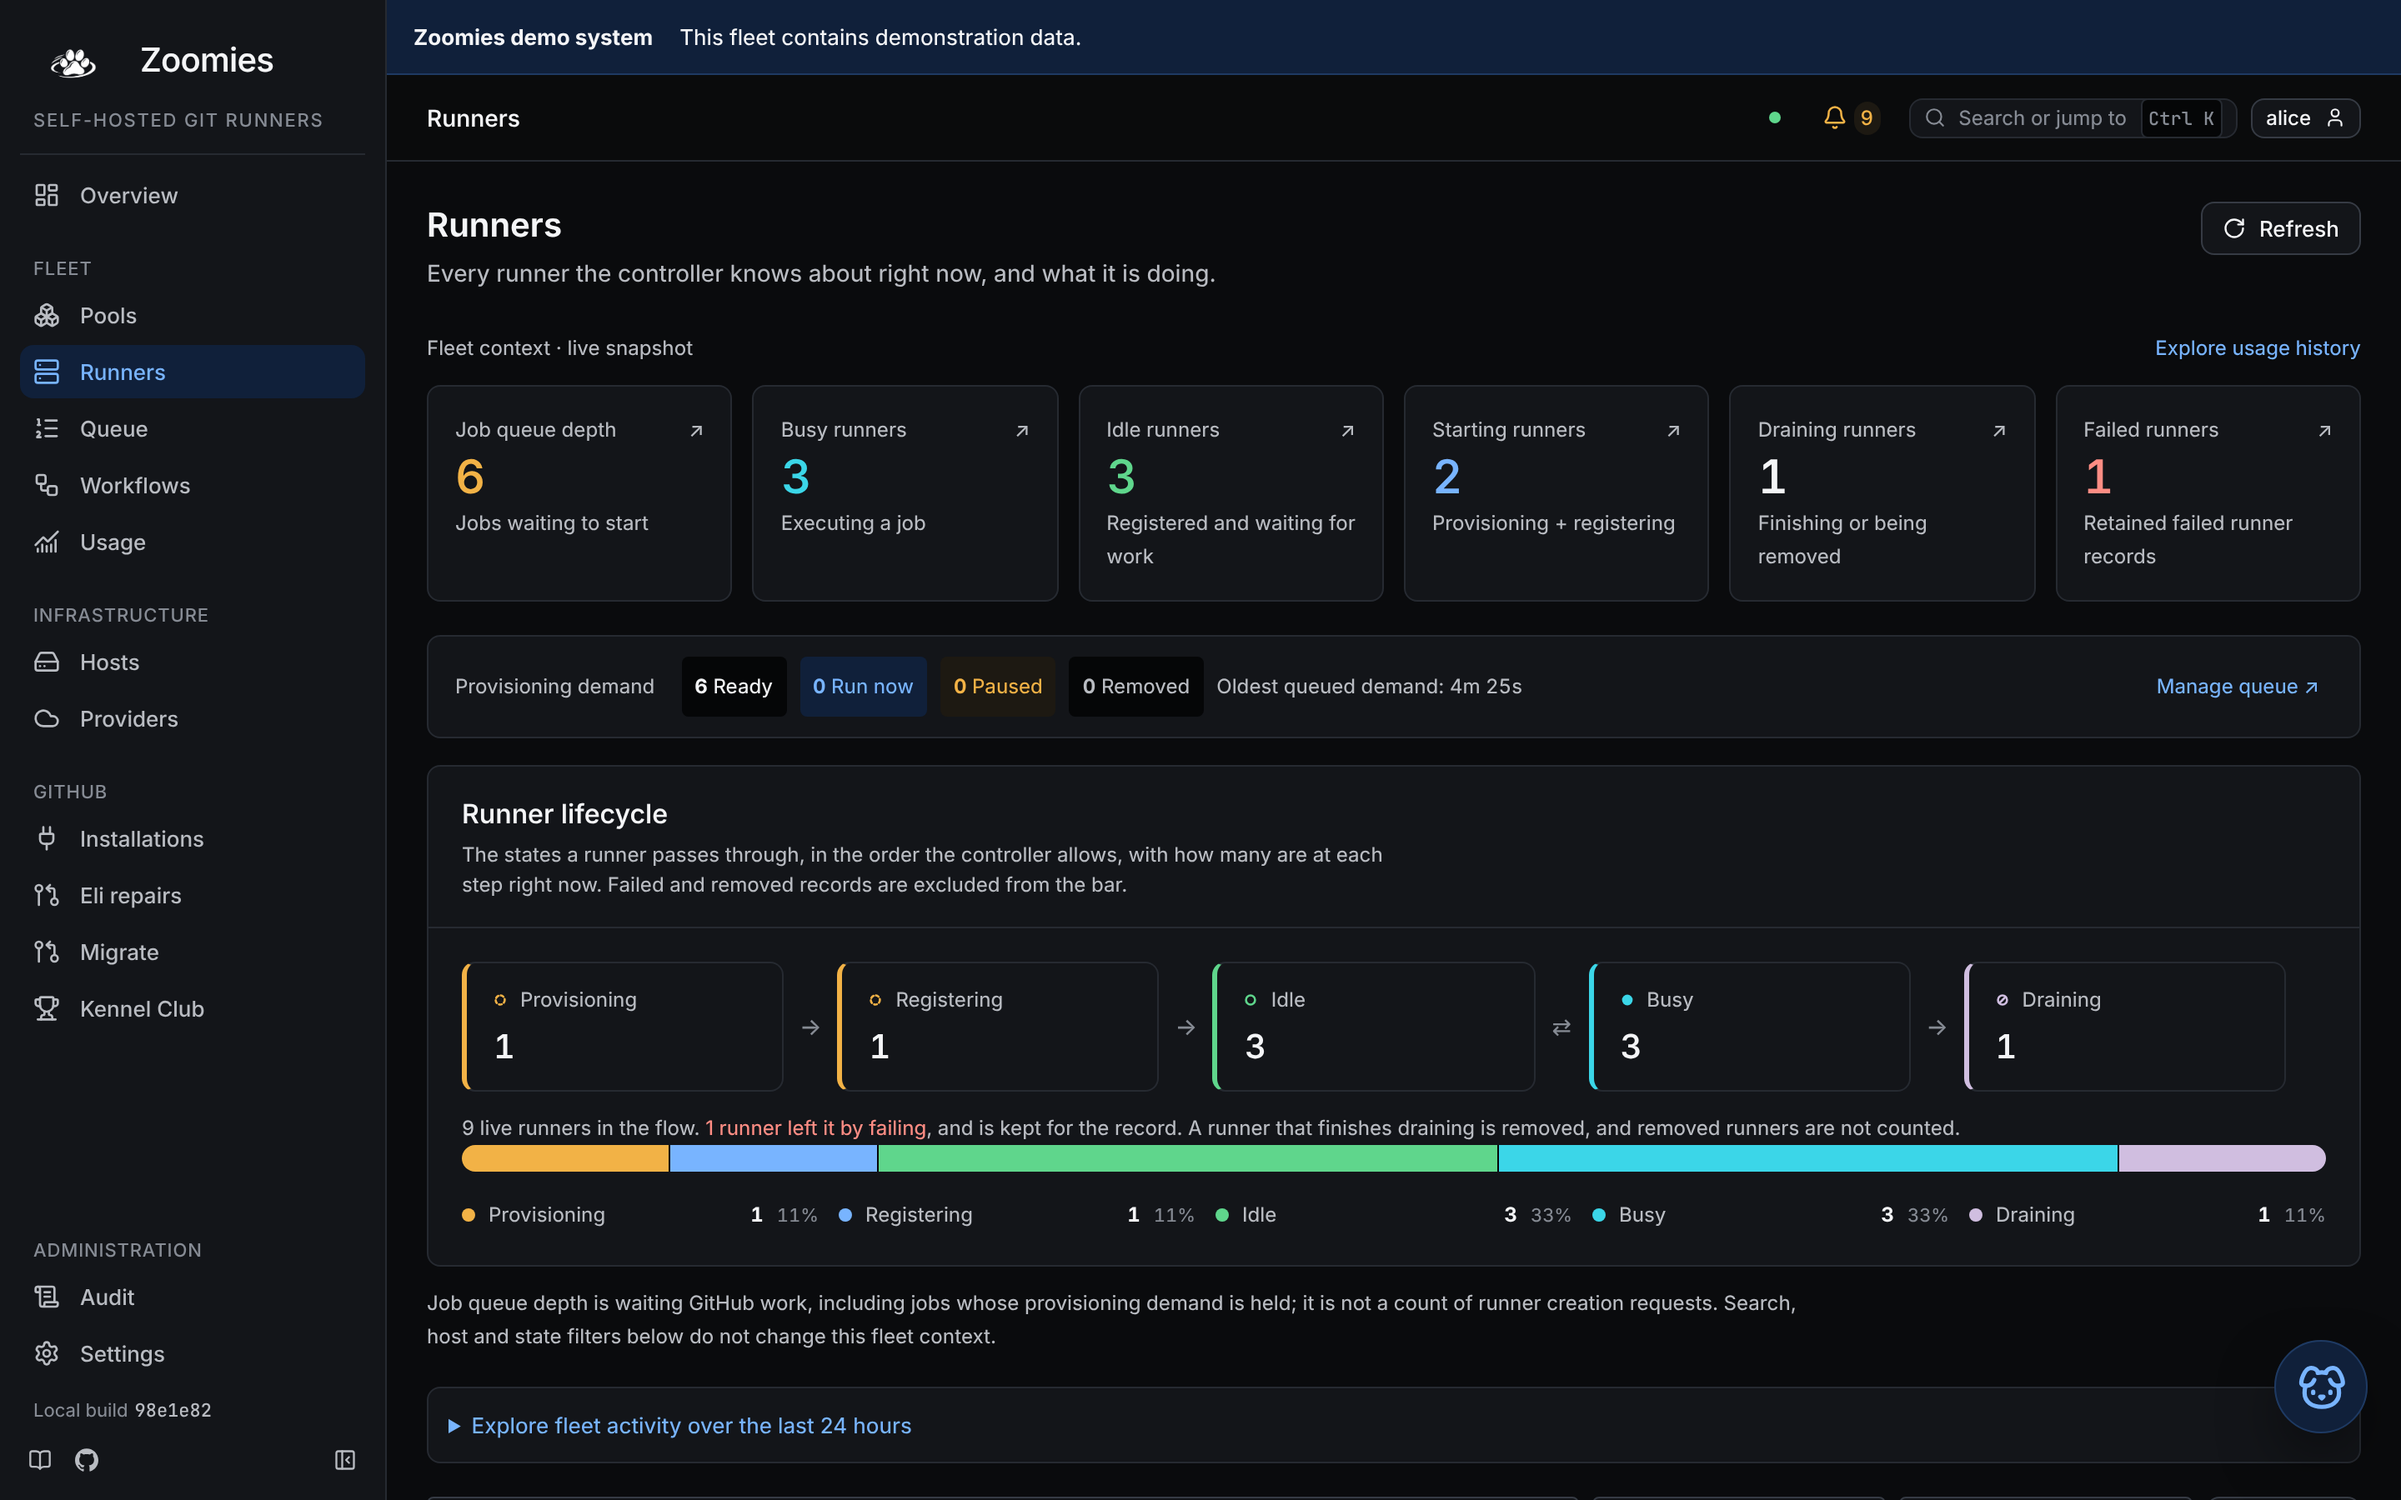
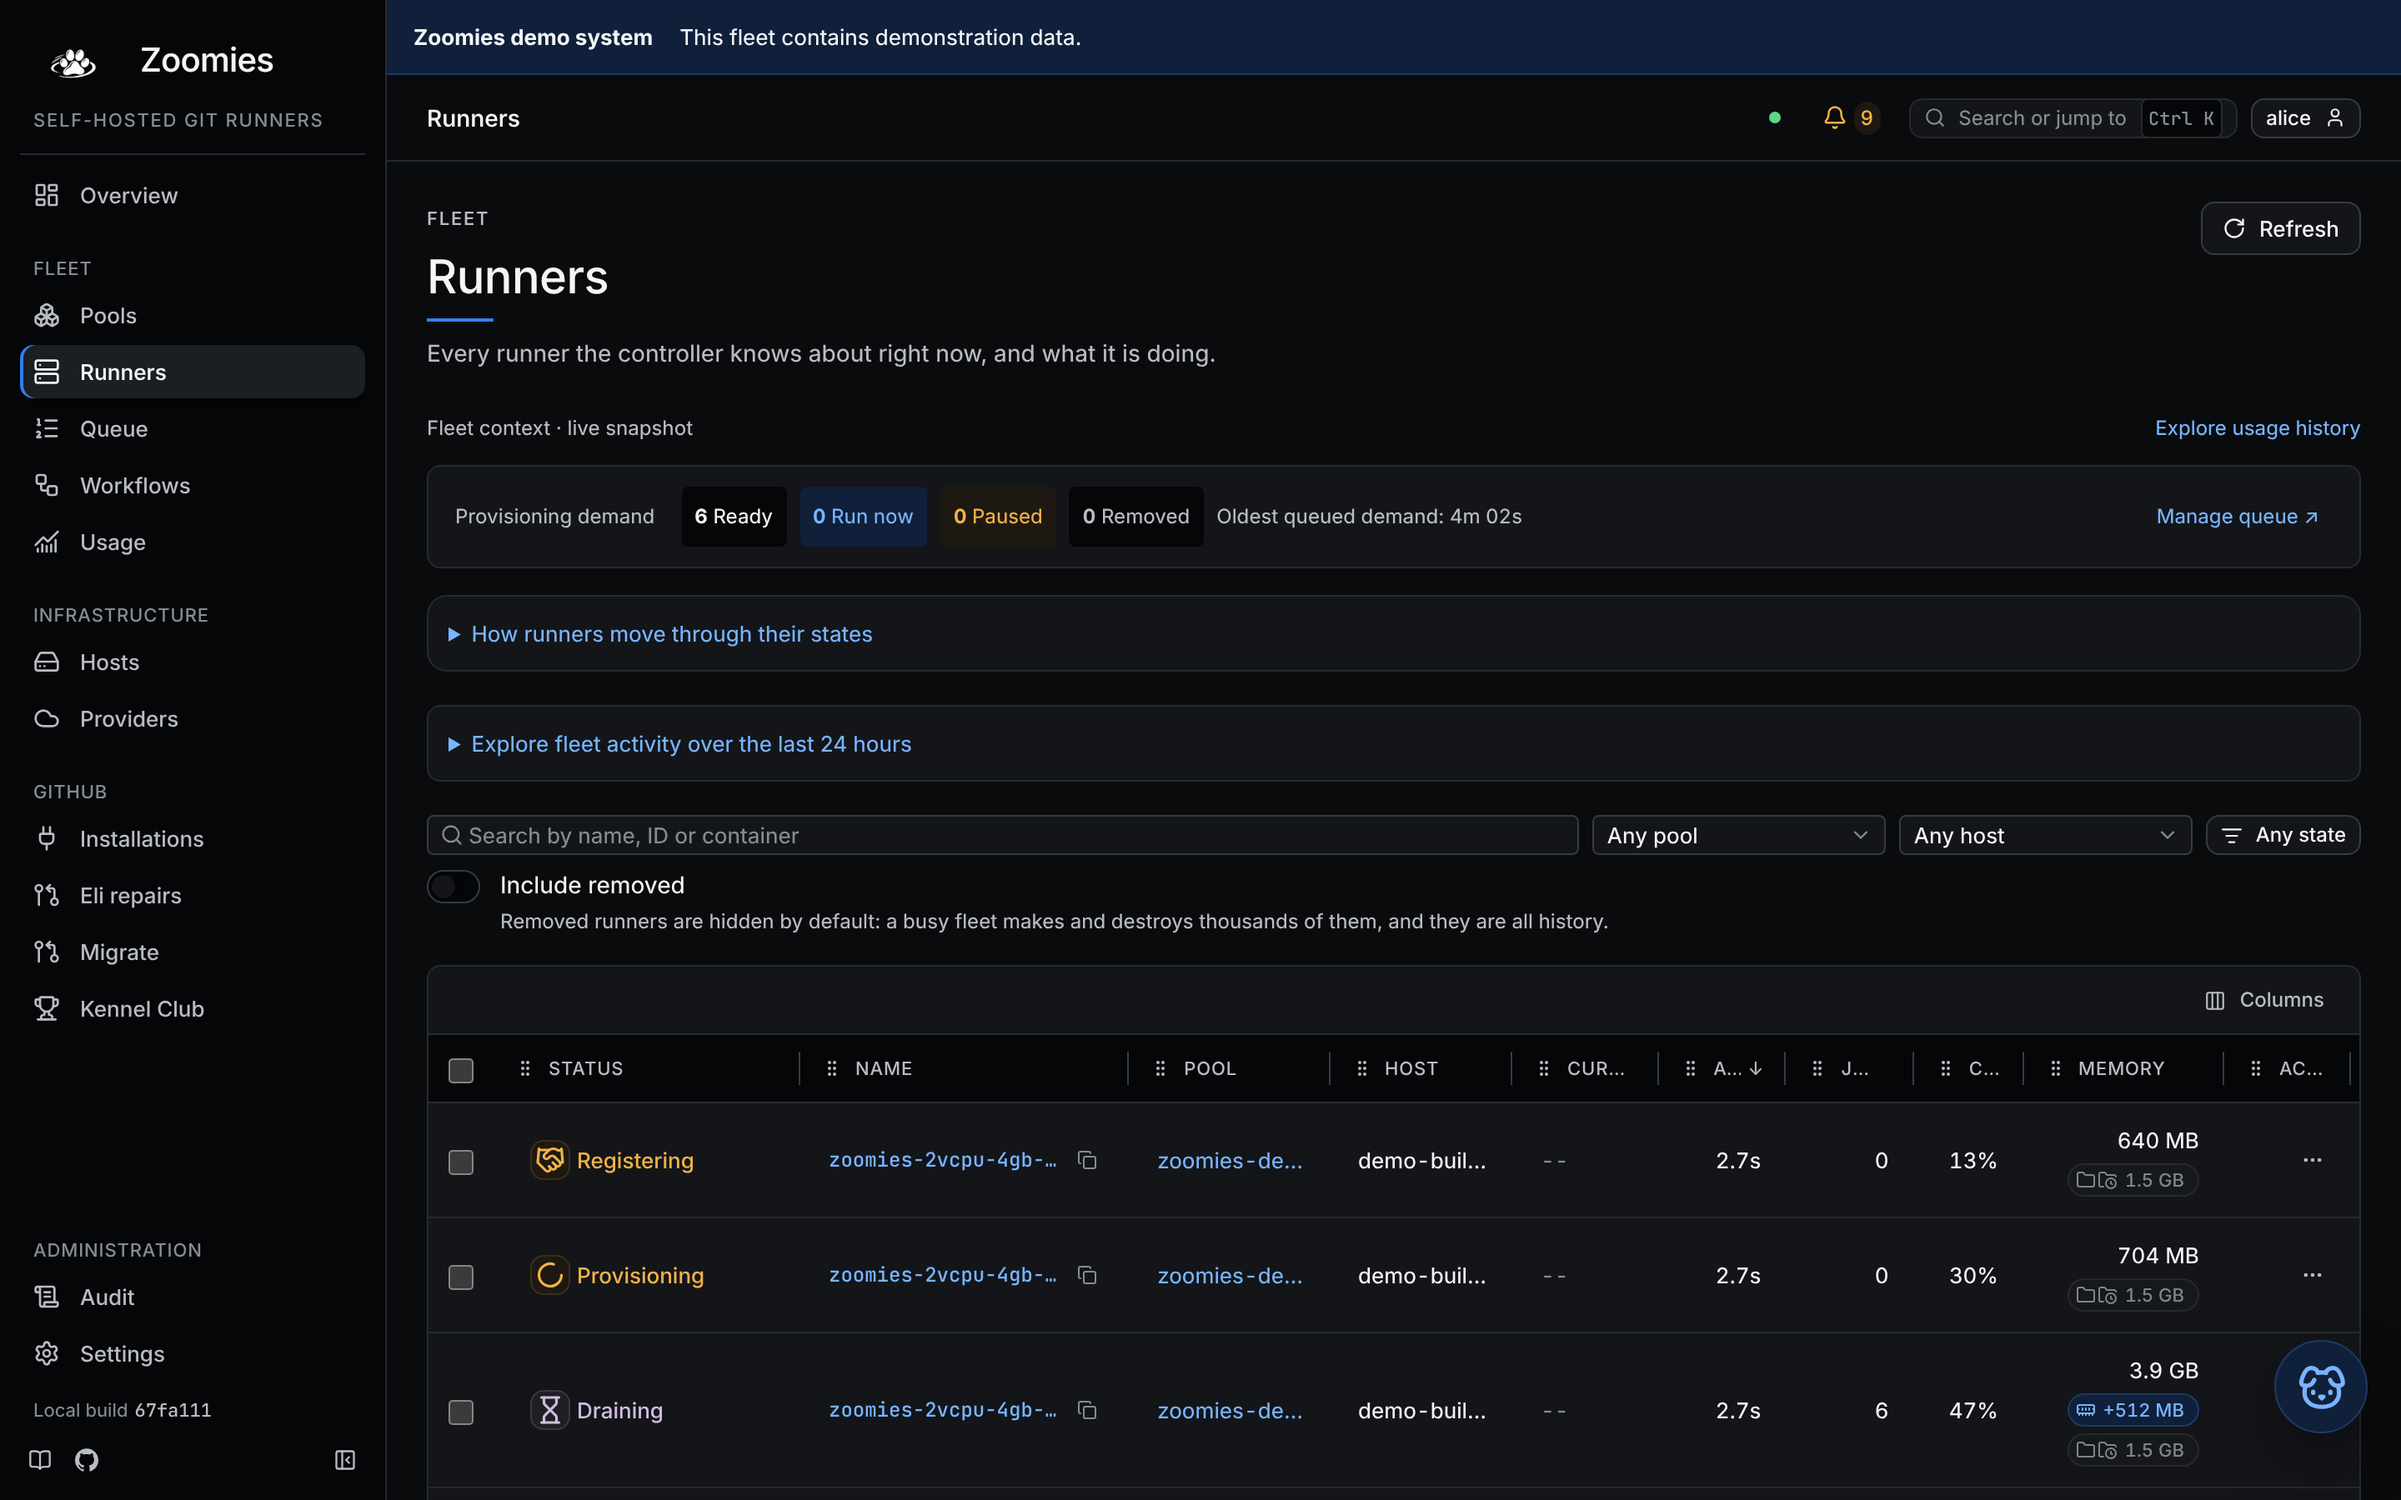
Open the Runners page on the runners
The six tiles go (the Overview and the Queue carry those figures), the
provisioning strip stays, and the lifecycle diagram and its note fold behind
How runners move through their states. The screenshots and the page's docs are
refreshed.

Claude-Session: https://claude.ai/code/session_01GkdhFBr16YDz8GRKZd9MHf

diff --git a/web/src/lib/insights/RunnerInsights.svelte b/web/src/lib/insights/RunnerInsights.svelte
@@ -11,7 +11,17 @@
   import { poolSignals, finite, queueTone } from './signals';
   import { formatNumber, NO_VALUE } from '$lib/format';
   import { runnerStatus } from '$lib/status';
-  let { poolId = '', compact = false }: { poolId?: string; compact?: boolean } = $props();
+  /**
+   * `lean` is the Runners page: the question there is "what are my runners
+   * doing", and the grid answers it, so the page opens with the provisioning
+   * strip and keeps the six tiles' figures (which the Overview and Queue pages
+   * carry) and the lifecycle explanation behind a disclosure.
+   */
+  let {
+    poolId = '',
+    compact = false,
+    lean = false,
+  }: { poolId?: string; compact?: boolean; lean?: boolean } = $props();
   const signal = $derived(poolSignals(fleet.pools, fleet.stats).find((p) => p.pool.id === poolId));
   const r = $derived(fleet.stats?.runners);
   const queue = $derived(poolId ? signal?.queued : finite(fleet.stats?.fleet?.queued_jobs));
@@ -162,23 +172,46 @@
       >Explore usage history</a
     >
   </div>
-  {#if !fleet.stats}<Skeleton lines={3} />{:else}<MetricGrid items={metrics} />{/if}
-  <ProvisioningPulse {poolId} />
-  {#if !compact && fleet.stats}<ChartPanel
-      title="Runner lifecycle"
-      description={poolId
-        ? 'How this pool\u2019s live runners divide up right now. Failed and removed records are excluded from this bar.'
-        : 'The states a runner passes through, in the order the controller allows, with how many are at each step right now. Failed and removed records are excluded from the bar.'}
-    >
-      {#if !poolId && r}<LifecycleFlow runners={r} />{/if}
-      <StateBreakdown {segments} label="Live runner states" noun="live runners" />
-    </ChartPanel>{/if}
-  <p class="note">
-    Job queue depth is waiting GitHub work, including jobs whose provisioning demand is held; it is
-    not a count of runner creation requests.
-    {#if compact}These figures describe the whole pool.{:else}Search, host and state filters below
-      do not change this {poolId ? 'pool' : 'fleet'} context.{/if}
-  </p>
+  {#if lean}
+    <ProvisioningPulse {poolId} />
+    {#if fleet.stats}
+      <details class="how">
+        <summary>How runners move through their states</summary>
+        <ChartPanel
+          title="Runner lifecycle"
+          description={poolId
+            ? 'How this pool\u2019s live runners divide up right now. Failed and removed records are excluded from this bar.'
+            : 'The states a runner passes through, in the order the controller allows, with how many are at each step right now. Failed and removed records are excluded from the bar.'}
+        >
+          {#if !poolId && r}<LifecycleFlow runners={r} />{/if}
+          <StateBreakdown {segments} label="Live runner states" noun="live runners" />
+        </ChartPanel>
+        <p class="note">
+          Job queue depth is waiting GitHub work, including jobs whose provisioning demand is held;
+          it is not a count of runner creation requests. Search, host and state filters below do not
+          change this {poolId ? 'pool' : 'fleet'} context.
+        </p>
+      </details>
+    {/if}
+  {:else}
+    {#if !fleet.stats}<Skeleton lines={3} />{:else}<MetricGrid items={metrics} />{/if}
+    <ProvisioningPulse {poolId} />
+    {#if !compact && fleet.stats}<ChartPanel
+        title="Runner lifecycle"
+        description={poolId
+          ? 'How this pool\u2019s live runners divide up right now. Failed and removed records are excluded from this bar.'
+          : 'The states a runner passes through, in the order the controller allows, with how many are at each step right now. Failed and removed records are excluded from the bar.'}
+      >
+        {#if !poolId && r}<LifecycleFlow runners={r} />{/if}
+        <StateBreakdown {segments} label="Live runner states" noun="live runners" />
+      </ChartPanel>{/if}
+    <p class="note">
+      Job queue depth is waiting GitHub work, including jobs whose provisioning demand is held; it
+      is not a count of runner creation requests.
+      {#if compact}These figures describe the whole pool.{:else}Search, host and state filters below
+        do not change this {poolId ? 'pool' : 'fleet'} context.{/if}
+    </p>
+  {/if}
 </section>
 
 <style>
@@ -196,6 +229,21 @@
   }
   a {
     color: var(--z-accent);
+  }
+  .how {
+    margin: var(--z-space-3) 0 0;
+  }
+  .how summary {
+    padding: var(--z-space-3);
+    border: var(--z-border-width) solid var(--z-border);
+    border-radius: var(--z-radius-lg);
+    background: var(--z-surface);
+    color: var(--z-accent);
+    font-size: var(--z-text-sm);
+    cursor: pointer;
+  }
+  .how[open] summary {
+    margin-bottom: var(--z-space-3);
   }
   .note {
     font-size: var(--z-text-xs);

diff --git a/web/tests/visual-insights.spec.ts b/web/tests/visual-insights.spec.ts
@@ -1,19 +1,16 @@
 import { expect, test } from '@playwright/test';
 import { goto, openFleetContext, openHostCapacityMap } from './support/fixtures';
 
-test('runner queue context uses fleet totals and links to provisioning controls', async ({
+test('runner context is the provisioning strip, with the way to the queue and no tiles', async ({
   page,
 }, testInfo) => {
   const errors: string[] = [];
   page.on('pageerror', (error) => errors.push(error.message));
   await goto(page, '/runners', 'Runners');
-  const stats = await (await page.request.get('/api/v1/stats')).json();
   const context = page.getByRole('region', { name: 'Runner operational context' });
-  await expect(
-    context.getByRole('link', {
-      name: new RegExp(`Job queue depth: ${stats.fleet.queued_jobs}\\.`),
-    }),
-  ).toBeVisible();
+  // The six tiles are gone from this page: the Overview and the Queue carry those
+  // figures, and the grid is what a person came to the Runners page for.
+  await expect(context.getByRole('link', { name: /^Job queue depth:/ })).toHaveCount(0);
   await expect(context.getByRole('link', { name: 'Manage queue ↗' })).toHaveAttribute(
     'href',
     '/queue',
@@ -177,6 +174,7 @@ test('the runner lifecycle draws the state machine with live counts and links', 
   page,
 }) => {
   await goto(page, '/runners', 'Runners');
+  await page.getByText('How runners move through their states', { exact: true }).click();
   const lifecycle = page.getByRole('region', { name: 'Runner lifecycle', exact: true });
   const steps = lifecycle.getByRole('list', { name: 'Runner lifecycle, in order' });
   await expect(steps.getByRole('listitem')).toHaveCount(5);
@@ -225,6 +223,9 @@ for (const route of [
       await goto(page, route.path, route.heading);
       // The Hosts page folds its map away until it is asked for.
       if (route.path === '/hosts') await openHostCapacityMap(page);
+      // The Runners page keeps its lifecycle behind a disclosure.
+      if (route.path === '/runners')
+        await page.getByText('How runners move through their states', { exact: true }).click();
       // And Mission Control folds the Jobs page's context away on a phone.
       if (route.path === '/jobs') await openFleetContext(page);
       await expect(page.getByRole('region', { name: route.panel, exact: true })).toBeVisible();

diff --git a/web/src/routes/Runners.svelte b/web/src/routes/Runners.svelte
@@ -558,7 +558,7 @@
   }}
 />
 
-<RunnerInsights {poolId} />
+<RunnerInsights {poolId} lean />
 <details class="activity-history">
   <summary>Explore fleet activity over the last 24 hours</summary><FleetHistory />
 </details>

diff --git a/docs/ui.md b/docs/ui.md
@@ -222,11 +222,13 @@ Every runner that exists right now and what each one is doing. Removed runners
 are hidden by default, because a busy fleet makes and destroys thousands of
 them and they are all history. Rows select for bulk drain or delete, and the
 state filter is a real filter: it narrows the set rather than repainting it.
-Above the grid, the runner lifecycle is the controller's own state machine
-drawn out (provisioning, registering, idle, busy, draining) with how many
-runners are at each step this moment and a link into each; under it, a bar of
-the same states whose segments are links too, and say their share when you
-hover them.
+Above the grid is the provisioning strip and a way to the queue; the page
+opens on the runners, and the six tiles it used to carry live on the Overview
+and the Queue. Behind a disclosure, **How runners move through their states**,
+the runner lifecycle is the controller's own state machine drawn out
+(provisioning, registering, idle, busy, draining) with how many runners are at
+each step this moment and a link into each; under it, a bar of the same states
+whose segments are links too, and say their share when you hover them.
 
 When the state filter includes failed runners, a **What keeps failing to start**
 card above the grid names the host or pool that keeps failing to start runners
@@ -236,8 +238,8 @@ list is narrowed to, and that the list's search is not applied to it. It is the
 answer [`zoomies analyse startup-failures`](cli.md#zoomies-analyse) prints, with
 its evidence folded under the next steps.
 
-![The Runners page: job queue depth, runner state totals, provisioning demand and lifecycle composition above the runner grid](screenshots/runners-dark.webp#only-dark){ .zoomies-shot }
-![The Runners page: job queue depth, runner state totals, provisioning demand and lifecycle composition above the runner grid](screenshots/runners-light.webp#only-light){ .zoomies-shot }
+![The Runners page: the provisioning strip and a folded explanation of how runners move through their states above the runner grid](screenshots/runners-dark.webp#only-dark){ .zoomies-shot }
+![The Runners page: the provisioning strip and a folded explanation of how runners move through their states above the runner grid](screenshots/runners-light.webp#only-light){ .zoomies-shot }
 
 A runner's page carries the job it is on, a timeline of how long it spent in
 each state (provisioning, registering, idle, busy) its resource usage as the
